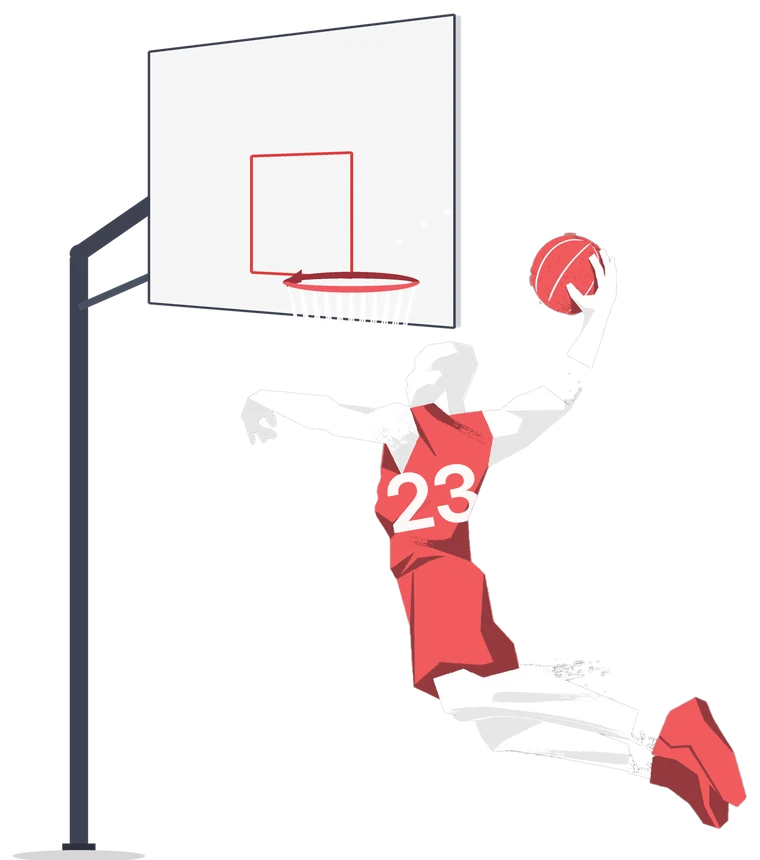
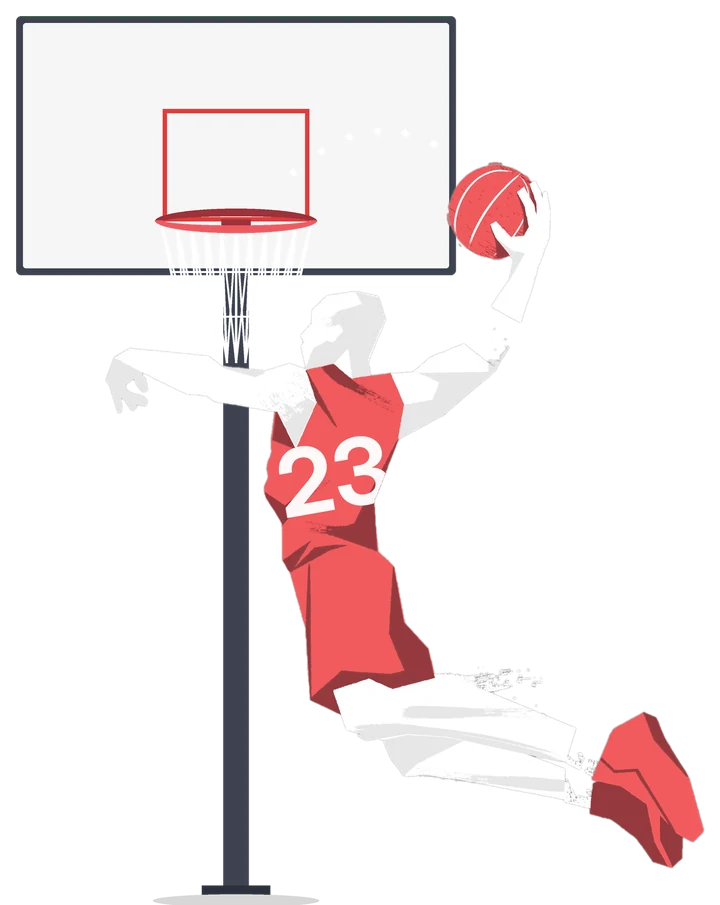
Accueil : panier redessiné de face, bien droit (style plat)
Claude-Session: https://claude.ai/code/session_01VenN85rNS98JqPPXrxFPhS

diff --git a/index.html b/index.html
@@ -578,7 +578,7 @@
 <body>
 <div id="app"></div>
 <script>
-var ASSETS = {"student":"assets/student.7332191892.txt","demo":"assets/demo.b98348612f.json","build":"d9ad592eae","img":{"dunk":"assets/dunk.8502e28e02.webp"}};
+var ASSETS = {"student":"assets/student.7332191892.txt","demo":"assets/demo.b98348612f.json","build":"d5317589f8","img":{"dunk":"assets/dunk.762ae12824.webp"}};
 </script>
 <script>
 /* =====================================================================
@@ -2176,7 +2176,7 @@ var HPHome = (function () {
   /* Illustration d'accueil : un joueur de basket (n° 23) marque un panier (Freepik, retouchée) */
   function scene() {
     var src = window.ASSETS && ASSETS.img && ASSETS.img.dunk;
-    return '<div class="mv-scene">' + (src ? '<img src="' + src + '" alt="Un joueur de basket, maillot rouge n° 23, s\'élance et marque un panier" width="760" height="860">' : '') + '</div>';
+    return '<div class="mv-scene">' + (src ? '<img src="' + src + '" alt="Un joueur de basket, maillot rouge n° 23, s\'élance et marque un panier" width="720" height="905">' : '') + '</div>';
   }
 
   /* Illustration : Maayane (grande, brune, yeux marron, souriante) */
@@ -2252,7 +2252,7 @@ var HPHome = (function () {
     '.mv-bubble .e{font-family:"Noto Color Emoji","Apple Color Emoji","Segoe UI Emoji",sans-serif;font-size:18px;line-height:1}.mv-bubble{max-width:230px;line-height:1.25;transition:opacity .35s}.mv-bubble.out{opacity:0}' +
     '.mv-b1{right:-14%;top:2%}.mv-b2{right:-16%;top:19%;animation-delay:-2s}.mv-b3{left:-16%;bottom:8%;animation-delay:-3.5s}.mv-b4{right:-8%;bottom:-6%;animation-delay:-1s}' +
     '@media (max-width:860px){.mv-bubble{font-size:11.5px;padding:7px 9px;max-width:140px;border-radius:14px}.mv-bubble .e{font-size:14px}.mv-b1{left:-22%;right:auto;top:auto;bottom:8%}.mv-b2,.mv-b3{display:none}.mv-b4{right:-22%;bottom:-6%}}' +
-    '.mv-scene{aspect-ratio:7/8;border-radius:46% 46% 32px 32px / 38% 38% 32px 32px;overflow:hidden;background:radial-gradient(120% 80% at 30% 20%,#4f86f7,#2a56c6 60%,#22449e);box-shadow:0 30px 60px -30px #2a56c6}.mv-scene img{display:block;width:100%;height:100%;object-fit:contain;object-position:center bottom;padding:12% 5% 0 5%}' +
+    '.mv-scene{aspect-ratio:4/5;border-radius:46% 46% 32px 32px / 38% 38% 32px 32px;overflow:hidden;background:radial-gradient(120% 80% at 30% 20%,#4f86f7,#2a56c6 60%,#22449e);box-shadow:0 30px 60px -30px #2a56c6}.mv-scene img{display:block;width:100%;height:100%;object-fit:contain;object-position:center bottom;padding:13% 6% 0 6%}' +
     '@keyframes mvFloat{50%{transform:translateY(-8px)}}' +
     '@media (prefers-reduced-motion:reduce){.mv-bubble{animation:none}}' +
     '.mv-sec{max-width:1120px;margin:0 auto;padding:30px 16px}' +

diff --git a/source/src/home.js b/source/src/home.js
@@ -7,7 +7,7 @@ var HPHome = (function () {
   /* Illustration d'accueil : un joueur de basket (n° 23) marque un panier (Freepik, retouchée) */
   function scene() {
     var src = window.ASSETS && ASSETS.img && ASSETS.img.dunk;
-    return '<div class="mv-scene">' + (src ? '<img src="' + src + '" alt="Un joueur de basket, maillot rouge n° 23, s\'élance et marque un panier" width="760" height="860">' : '') + '</div>';
+    return '<div class="mv-scene">' + (src ? '<img src="' + src + '" alt="Un joueur de basket, maillot rouge n° 23, s\'élance et marque un panier" width="720" height="905">' : '') + '</div>';
   }
 
   /* Illustration : Maayane (grande, brune, yeux marron, souriante) */
@@ -83,7 +83,7 @@ var HPHome = (function () {
     '.mv-bubble .e{font-family:"Noto Color Emoji","Apple Color Emoji","Segoe UI Emoji",sans-serif;font-size:18px;line-height:1}.mv-bubble{max-width:230px;line-height:1.25;transition:opacity .35s}.mv-bubble.out{opacity:0}' +
     '.mv-b1{right:-14%;top:2%}.mv-b2{right:-16%;top:19%;animation-delay:-2s}.mv-b3{left:-16%;bottom:8%;animation-delay:-3.5s}.mv-b4{right:-8%;bottom:-6%;animation-delay:-1s}' +
     '@media (max-width:860px){.mv-bubble{font-size:11.5px;padding:7px 9px;max-width:140px;border-radius:14px}.mv-bubble .e{font-size:14px}.mv-b1{left:-22%;right:auto;top:auto;bottom:8%}.mv-b2,.mv-b3{display:none}.mv-b4{right:-22%;bottom:-6%}}' +
-    '.mv-scene{aspect-ratio:7/8;border-radius:46% 46% 32px 32px / 38% 38% 32px 32px;overflow:hidden;background:radial-gradient(120% 80% at 30% 20%,#4f86f7,#2a56c6 60%,#22449e);box-shadow:0 30px 60px -30px #2a56c6}.mv-scene img{display:block;width:100%;height:100%;object-fit:contain;object-position:center bottom;padding:12% 5% 0 5%}' +
+    '.mv-scene{aspect-ratio:4/5;border-radius:46% 46% 32px 32px / 38% 38% 32px 32px;overflow:hidden;background:radial-gradient(120% 80% at 30% 20%,#4f86f7,#2a56c6 60%,#22449e);box-shadow:0 30px 60px -30px #2a56c6}.mv-scene img{display:block;width:100%;height:100%;object-fit:contain;object-position:center bottom;padding:13% 6% 0 6%}' +
     '@keyframes mvFloat{50%{transform:translateY(-8px)}}' +
     '@media (prefers-reduced-motion:reduce){.mv-bubble{animation:none}}' +
     '.mv-sec{max-width:1120px;margin:0 auto;padding:30px 16px}' +
